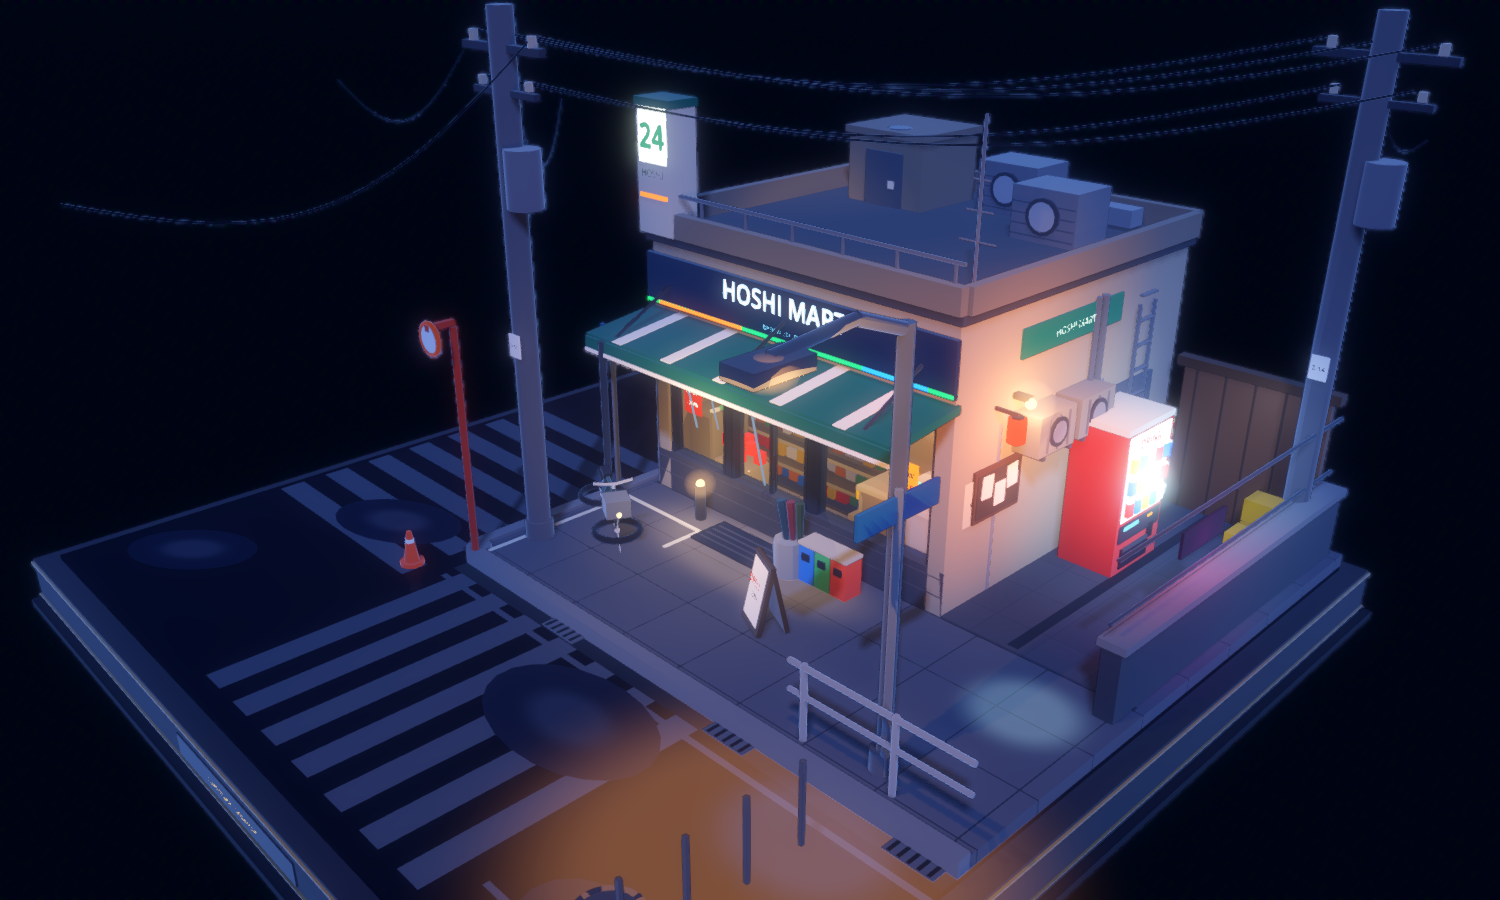
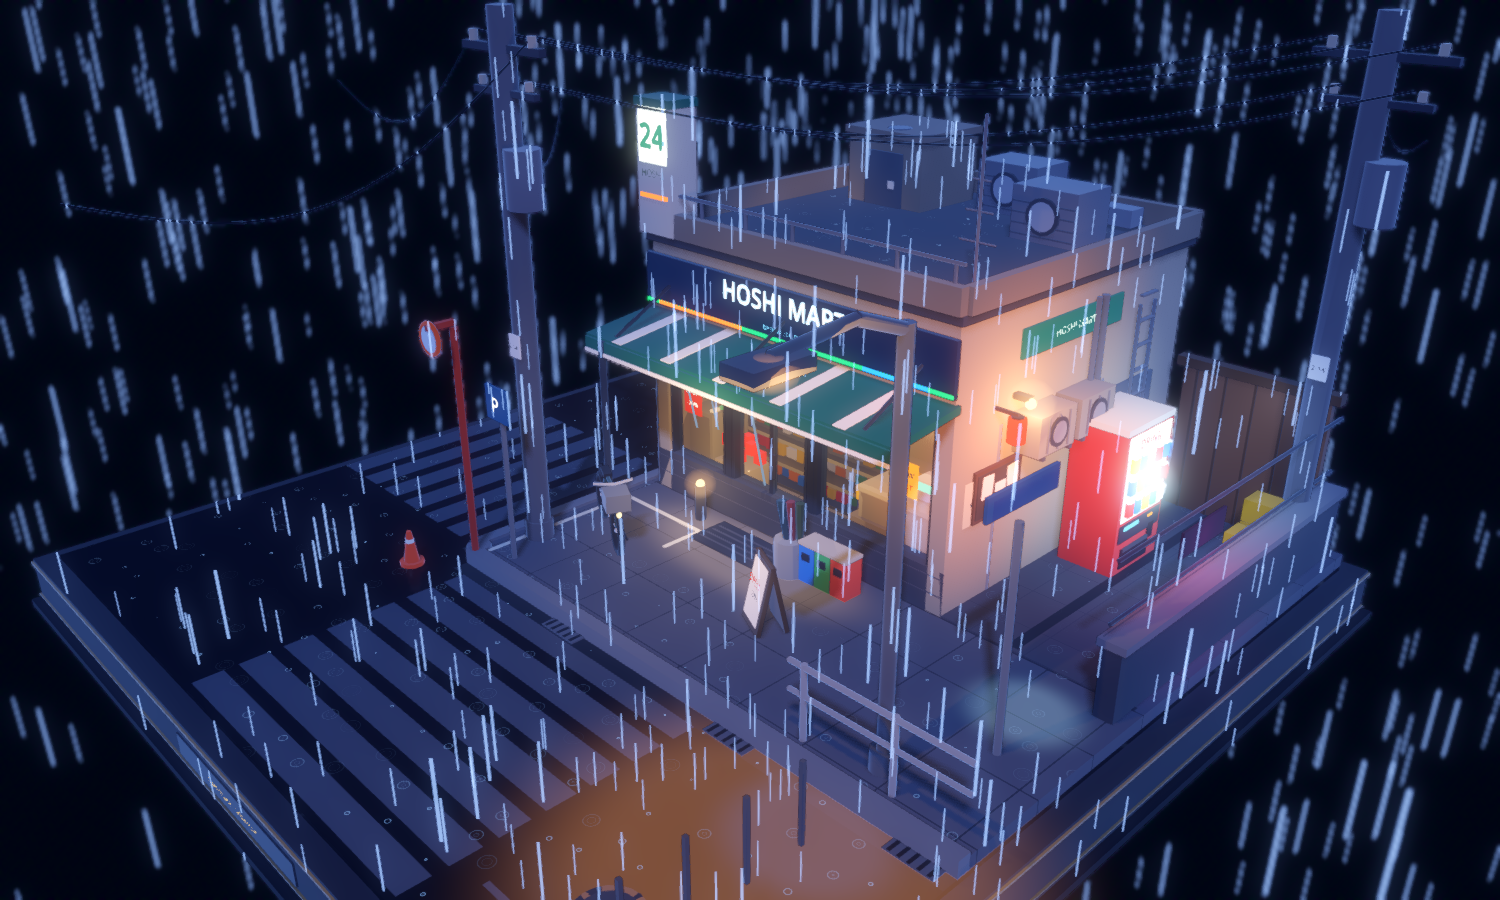
fix: 雨滴不再穿透雨棚/屋面，新增落雨涟漪，修正自行车轮/路牌/斑马线
- 雨改用自定义粒子着色器 rain_particles：每帧按 xz 采样该列最高可接雨表面
  （马路 0.0 / 人行道 0.16 / 后巷 0.19 / 雨棚 2.66 / 屋面 3.71），落地即回收，
  雨丝不再穿过雨棚与屋顶；面片挂在粒子上方，触面时不戳穿地表
- 新增 rain_ripple 落点涟漪：世界坐标网格 + 随机相位扩散圆环，铺在马路、
  门前人行道、后巷与屋面，加色混合不与标线/光池打架；雨棚正下方保持干燥
- 自行车轮圈改为竖立（torus 绕 Z 轴 90°，原绕 Y 轴仍在水平面），
  挡泥板、车筐抬高避让轮胎，撑脚落地
- P 字路牌移出雨棚下方，牌面挂到立杆前方，不再被杆子从中间劈开
- 街道路牌迁离路灯杆（原来两杆几乎重合），牌面接在杆顶
- 移除路面积水效果（水洼与反光面）
- 斑马线条纹旋转 90°，改为平行车行方向；车道边缘线在斑马线处断开
- 重新渲染 shots/ 下 7 个机位

diff --git a/README.md b/README.md
@@ -30,7 +30,7 @@
 scenes/main.tscn        场景入口（仅挂载 main.gd）
 scripts/main.gd         环境、灯光、轨道相机、雨、截图调试
 scripts/kit.gd          建模工具库：体块、圆柱、管线、拉杆、文字、材质缓存
-scripts/street.gd       底座 / 人行道 / 马路 / 标线 / 电线杆 / 路灯 / 街角设施 / 水洼
+scripts/street.gd       底座 / 人行道 / 马路 / 标线 / 电线杆 / 路灯 / 街角设施 / 湿地面光池
 scripts/store.gd        便利店：外壳 / 玻璃立面 / 自动门 / 雨棚 / 招牌 / 屋顶 / 店内
 scripts/props.gd        道具：贩卖机 / 自行车 / 伞架 / 垃圾桶 / 后巷 / 猫
 shaders/toon.gdshader   三渲二主材质（硬边分层 + 冷色边缘光）
@@ -40,6 +40,8 @@ shaders/glass.gdshader  玻璃（染色 + 边缘反光）
 shaders/glow.gdshader   自发光面板（招牌 / 灯箱 / 霓虹）
 shaders/wet_glow.gdshader 湿地面柔光池
 shaders/soft_glow.gdshader 灯头光晕
+shaders/rain_particles.gdshader 雨滴粒子（按表面高度截断）
+shaders/rain_ripple.gdshader 雨滴落点涟漪
 ```
 
 ## 美术要点
@@ -47,7 +49,8 @@ shaders/soft_glow.gdshader 灯头光晕
 - **三渲二**：`toon.gdshader` 用自定义 `light()` 把 N·L 量化成两档硬边，暗部保留 35%–55% 亮度，再叠一层菲涅尔冷色边缘光；所有物体通过 `next_pass` 做反向外壳描边。
 - **夜景层次**：冷蓝月光 + 店内暖光 + 招牌/灯箱自发光 + 粉紫霓虹（后巷 BAR），配合泛光（glow）与湿地面光池，形成冷—暖—霓虹三层色彩关系。
 - **微缩模型感**：11.2 × 11.2 正方形底座，深色石材台座 + 黄铜腰线 + 正面铭牌；相机 40° 长焦、低俯角，Forward+ 下附带轻微景深（移轴感）。
-- **雨**：GPUParticles3D 竖向细长面片 + 加色混合，配合雾与地面反光；雨量、长度、透明度在 `main.gd` 的 `_setup_rain()` 里调整。
+- **雨**：`rain_particles.gdshader` 自己算雨滴下落，每帧按 xz 采样「该列最高的可接雨表面」（马路 0.0 / 人行道 0.16 / 后巷 0.19 / 雨棚 2.66 / 屋面 3.71），落到面上就回收重发——雨丝不会穿过雨棚和屋顶继续往下掉。面片挂在粒子位置上方，触面时刚好收在地表。
+- **涟漪**：`rain_ripple.gdshader` 按世界坐标切网格、每格随机相位画扩散圆环，铺在马路、门前人行道、后巷与屋面上；加色混合 + 关闭深度写入，不和标线、光池打架；雨棚正下方用 `dry_min/dry_max` 裁掉，保持干燥。
 
 ## 常用调节点
 
